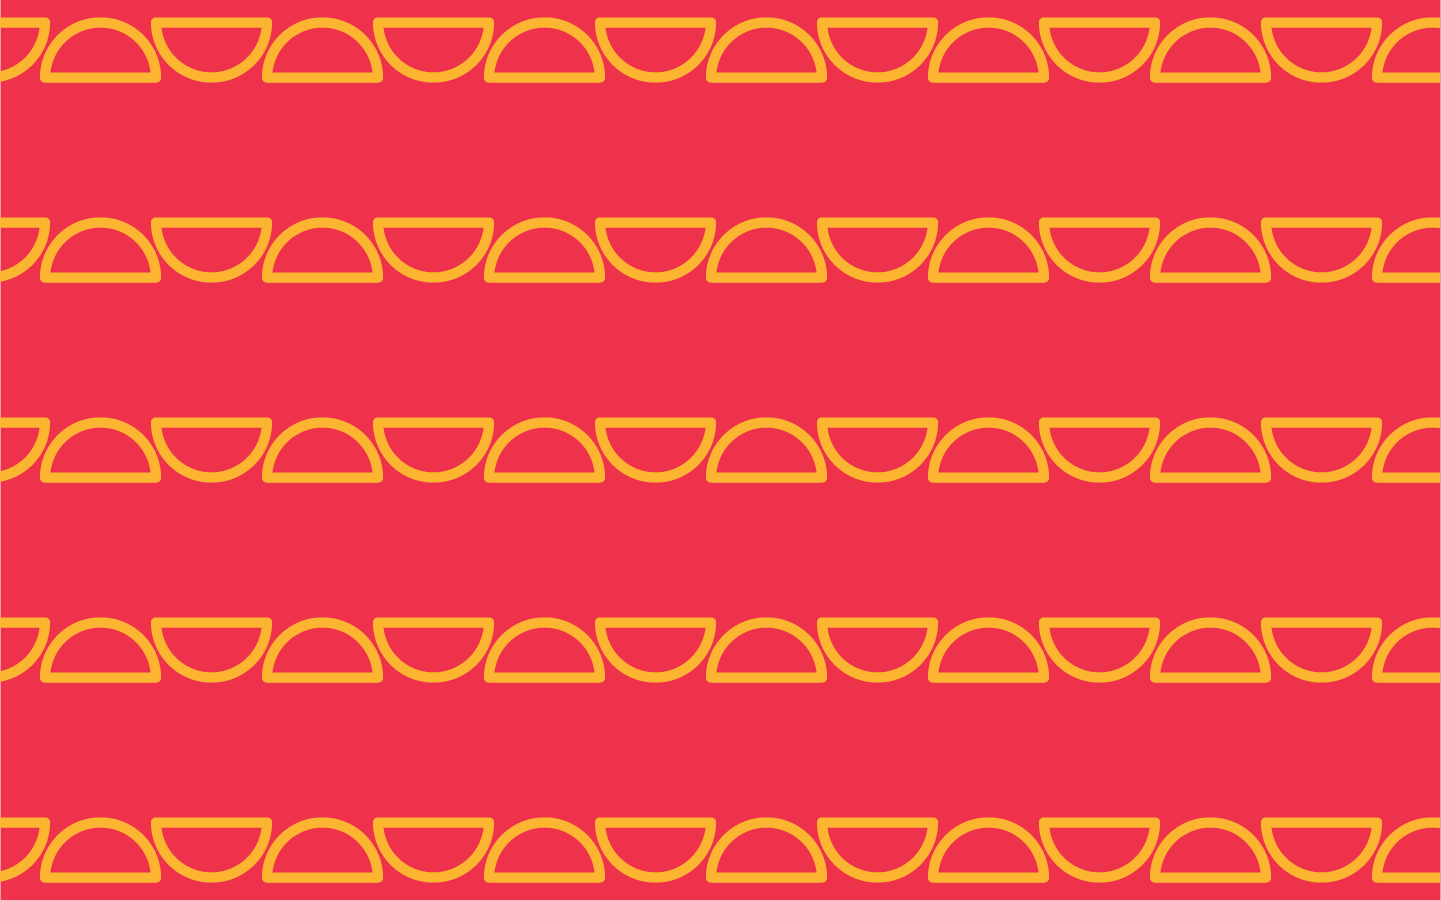
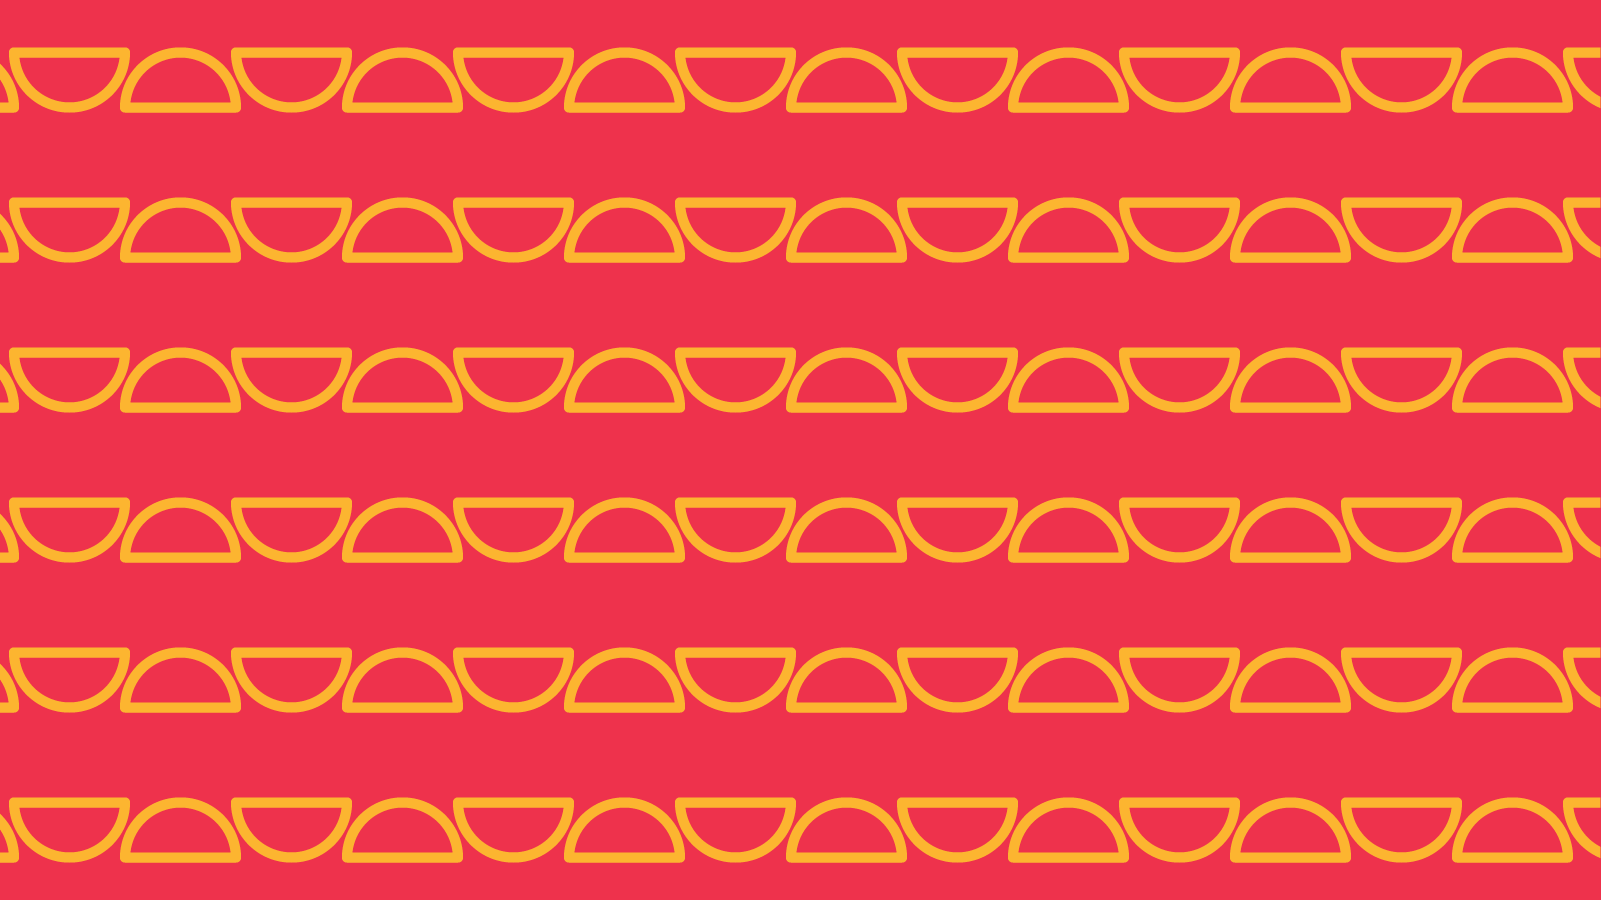
added the rest of the pages

diff --git a/rolls.html b/rolls.html
@@ -1,0 +1,73 @@
+<!DOCTYPE html>
+<html lang="en">
+<head>
+	<meta charset="UTF-8">
+	<title>Đặc Việt - Special Vietnamese Food</title>
+	<link rel="shortcut icon" href="/favicon.ico" type="image/x-icon">
+	<link rel="icon" href="/favicon.ico" type="image/x-icon">
+	<!-- This is a special css library that overrides all the ugle default css styles that come with html5 -->
+	<link rel="stylesheet" href="https://cdnjs.cloudflare.com/ajax/libs/meyer-reset/2.0/reset.min.css">
+	<link rel="stylesheet" href="css/style.css">
+	<link href="https://fonts.googleapis.com/css?family=Be+Vietnam|Yeseva+One&display=swap" rel="stylesheet">
+</head>
+<body class="rolls-pg">
+	<!-- These semantic tags were added to help you get started but you are very welcome to delete any of them and do your own thing -->
+	<div class="wrapper">
+		<header>
+			<!-- header, h1, logo etc content -->
+			<h1><a href="index.html"><img src="images/logo.png"></a></h1>
+			<nav>
+				<!-- Global naviagtion stuff here, but move this or delete this to your liking. Same goes for the rest -->
+				<ul>
+					<li><a href="noodles.html" class="nav-noodles">Noodles</a></li>
+					<li><a href="rolls.html" class="nav-rolls" style="color:teal;">Rolls</a></li>
+					<li><a href="fried.html" class="nav-fried">Fried</a></li>
+					<li><a href="dessert.html" class="nav-dessert">Dessert</a></li>
+				</ul>
+			</nav>
+		</header>
+		<main>
+			<!-- Main content here -->
+			<div class="grid-content">
+				<div class="grid-img-rolls">
+					<img src="images/goi_cuon.jpg">
+				</div>
+				<div class="grid-text">
+					<h2 class="rolls">Gỏi Cuốn</h2>
+					<p>Gỏi cuốn, Vietnamese spring roll, fresh spring roll or cold roll,
+						is a Vietnamese dish traditionally consisting of pork, prawn,
+						vegetables, bún (rice vermicelli), and other ingredients wrapped
+						in Vietnamese bánh tráng (commonly known as rice paper or
+						cold roll). Like other spring roll dishes, they are believed to have
+						an origin in China and were introduced to Vietnam by Chinese
+						immigrants although the gỏi cuốn has been modified to suit local
+						tastes.
+					</p>
+				</div> 	
+				<div class="grid-text-bottom">
+					<h2 class="rolls">Chả Giò</h2>
+					<p>Chả giò is a popular dish in Vietnamese cuisine and usually
+						served as an appetizer in Europe and North America, where there
+						are large Vietnamese diaspora. It is ground meat, usually pork,
+						wrapped in rice paper and deep-fried.
+					<br>
+						The main structure of a roll of chả giò is commonly seasoned
+						ground meat, mushrooms, and diced vegetables such as carrots,
+						kohlrabi and jicama, rolled up in a sheet of moist rice paper. The
+						roll is then deep fried until the rice paper coat turns crispy and
+						golden brown.
+					</p>p>
+				</div>
+				<div class="grid-img-rolls">
+					<img src="images/cha_gio.jpg">
+				</div>
+
+			</div>
+		</main>
+		<footer>
+			<!-- footer content here -->
+			<p class="footer">Copyright Rosa Phan 2019.</p>
+		</footer>
+	</div>
+</body>
+</html>

diff --git a/dessert.html b/dessert.html
@@ -1,0 +1,70 @@
+<!DOCTYPE html>
+<html lang="en">
+<head>
+	<meta charset="UTF-8">
+	<title>Đặc Việt - Special Vietnamese Food</title>
+	<link rel="shortcut icon" href="/favicon.ico" type="image/x-icon">
+	<link rel="icon" href="/favicon.ico" type="image/x-icon">
+	<!-- This is a special css library that overrides all the ugle default css styles that come with html5 -->
+	<link rel="stylesheet" href="https://cdnjs.cloudflare.com/ajax/libs/meyer-reset/2.0/reset.min.css">
+	<link rel="stylesheet" href="css/style.css">
+	<link href="https://fonts.googleapis.com/css?family=Be+Vietnam|Yeseva+One&display=swap" rel="stylesheet">
+</head>
+<body class="dessert-pg">
+	<!-- These semantic tags were added to help you get started but you are very welcome to delete any of them and do your own thing -->
+	<div class="wrapper">
+		<header>
+			<!-- header, h1, logo etc content -->
+			<h1><a href="index.html"><img src="images/logo.png"></a></h1>
+			<nav>
+				<!-- Global naviagtion stuff here, but move this or delete this to your liking. Same goes for the rest -->
+				<ul>
+					<li><a href="noodles.html" class="nav-noodles">Noodles</a></li>
+					<li><a href="rolls.html" class="nav-rolls">Rolls</a></li>
+					<li><a href="fried.html" class="nav-fried">Fried</a></li>
+					<li><a href="dessert.html" class="nav-dessert" style="color:purple;">Dessert</a></li>
+				</ul>
+			</nav>
+		</header>
+		<main>
+			<!-- Main content here -->
+			<div class="grid-content">
+				<div class="grid-img-dessert">
+					<img src="images/xoi.jpg">
+				</div>
+				<div class="grid-text">
+					<h2 class="dessert">Xôi</h2>
+					<p>Xôi is a sweet (ngọt) or savory (mặn) Vietnamese dish made
+						from glutinous rice and other ingredients. Although it is often
+						served as a dessert, in many mountainous areas in Vietnam, like
+						the Central Highlands and Hoàng Liên Sơn mountains in northern
+						Vietnam, people eat xôi as a main dish. Xôi is a common on-thego
+						breakfast item, and a popular snack nationwide.
+					</p>
+				</div> 	
+				<div class="grid-text-bottom">
+					<h2 class="dessert">Bánh Bò</h2>
+					<p>Bánh bò is a sweet, chewy sponge cake from Vietnam. It is made
+						from rice flour, water, sugar, and yeast, and has a honeycomblike
+						appearance on the inside due to the presence of numerous
+						small air bubbles. Coconut milk is also usually a part of the batter,
+						imparting a slight flavor and aroma of coconut. The cake is of
+						Southern Chinese origin, although the Chinese version, called bái
+						táng gāo, does not contain coconut milk. Bánh bò are generally
+						eaten as a dessert, although they may also be consumed as an
+						accompaniment to a meal.
+					</p>p>
+				</div>
+				<div class="grid-img-dessert">
+					<img src="images/banh_bo.jpg">
+				</div>
+
+			</div>
+		</main>
+		<footer>
+			<!-- footer content here -->
+			<p class="footer">Copyright Rosa Phan 2019.</p>
+		</footer>
+	</div>
+</body>
+</html>

diff --git a/fried.html b/fried.html
@@ -1,0 +1,69 @@
+<!DOCTYPE html>
+<html lang="en">
+<head>
+	<meta charset="UTF-8">
+	<title>Đặc Việt - Special Vietnamese Food</title>
+	<link rel="shortcut icon" href="/favicon.ico" type="image/x-icon">
+	<link rel="icon" href="/favicon.ico" type="image/x-icon">
+	<!-- This is a special css library that overrides all the ugle default css styles that come with html5 -->
+	<link rel="stylesheet" href="https://cdnjs.cloudflare.com/ajax/libs/meyer-reset/2.0/reset.min.css">
+	<link rel="stylesheet" href="css/style.css">
+	<link href="https://fonts.googleapis.com/css?family=Be+Vietnam|Yeseva+One&display=swap" rel="stylesheet">
+</head>
+<body class="fried-pg">
+	<!-- These semantic tags were added to help you get started but you are very welcome to delete any of them and do your own thing -->
+	<div class="wrapper">
+		<header>
+			<!-- header, h1, logo etc content -->
+			<h1><a href="index.html"><img src="images/logo.png"></a></h1>
+			<nav>
+				<!-- Global naviagtion stuff here, but move this or delete this to your liking. Same goes for the rest -->
+				<ul>
+					<li><a href="noodles.html" class="nav-noodles">Noodles</a></li>
+					<li><a href="rolls.html" class="nav-rolls">Rolls</a></li>
+					<li><a href="fried.html" class="nav-fried" style="color:red;">Fried</a></li>
+					<li><a href="dessert.html" class="nav-dessert">Dessert</a></li>
+				</ul>
+			</nav>
+		</header>
+		<main>
+			<!-- Main content here -->
+			<div class="grid-content">
+				<div class="grid-img-fried">
+					<img src="images/banh_xeo.jpg">
+				</div>
+				<div class="grid-text">
+					<h2 class="fried">Bánh Xèo</h2>
+					<p>Bánh xèo, literally “sizzling pancake”, named for the loud sizzling
+						sound it makes when the rice batter is poured into the hot skillet;
+						it is a Vietnamese savoury fried pancake made of rice flour, water,
+						and turmeric powder. Some common stuffings include: pork,
+						shrimp, diced green onion, mung bean, and bean sprouts. Bánh
+						xèo are also served with lettuce, mint, Thai basil, and fish mint.
+					</p>
+				</div> 	
+				<div class="grid-text-bottom">
+					<h2 class="fried">Chạo Tôm</h2>
+					<p>Chạo tôm is a traditional Vietnamese dish that comes from the
+						Huế region of Central Vietnam. It consists of shrimp surimi grilled
+						on a sugar cane stick. It is often presented as a dish during large
+						banquets prepared for weddings, holidays, or similar special
+						events.
+					<br>
+						They are often eaten with vermicelli noodles, or is used as the
+						main protein in gỏi cuốn.
+					</p>p>
+				</div>
+				<div class="grid-img-fried">
+					<img src="images/chao_tom.jpg">
+				</div>
+
+			</div>
+		</main>
+		<footer>
+			<!-- footer content here -->
+			<p class="footer">Copyright Rosa Phan 2019.</p>
+		</footer>
+	</div>
+</body>
+</html>

diff --git a/css/style.css b/css/style.css
@@ -13,14 +13,32 @@ body {
 		background-image: url(../images/bg_noodles.png);
 	}
 
+	.rolls-pg{
+		background-image: url(../images/bg_rolls.png);
+	}
+
+	.fried-pg{
+		background-image: url(../images/bg_fried.png);
+	}
+
+	.dessert-pg{
+		background-image: url(../images/bg_dessert.png);
+	}
+
 a {
 	text-decoration: none;
 	color: white;
 	font-size: 20px;
 }
 
-	.noodles-link:hover {color: orange;}
-	.noodles-link:active {color: orange;}
+	.nav-noodles:hover {color: orange;}
+	.nav-noodles:active {color: orange;}
+	.nav-rolls:hover {color: teal;}
+	.nav-rolls:active {color: teal;}
+	.nav-fried:hover {color: red;}
+	.nav-fried:active {color: red;}
+	.nav-dessert:hover {color: purple;}
+	.nav-dessert:active {color: purple;}
 
 header, main, footer {
 	background-color: black;
@@ -86,8 +104,52 @@ main {
 		margin-left: 20px;}
 
 
-	.grid-text-bottom div:nth-child(even) {
-		vertical-align: text-bottom;}
+	.grid-text-bottom {
+		text-align: right;
+	}
+
+	.grid-img-rolls img {
+		border-color:teal;
+		border-style:solid;
+		border-radius: 25px;
+		border-width: 10px;
+		width: 100%;
+	}
+
+	.grid-img-rolls img:nth-child(odd) {
+		margin-right: 20px;}
+
+	.grid-img-rolls img:nth-child(even) {
+		margin-left: 20px;}
+
+	.grid-img-fried img {
+		border-color:red;
+		border-style:solid;
+		border-radius: 25px;
+		border-width: 10px;
+		width: 100%;
+	}
+
+	.grid-img-fried img:nth-child(odd) {
+		margin-right: 20px;}
+
+	.grid-img-fried img:nth-child(even) {
+		margin-left: 20px;}
+
+	.grid-img-dessert img {
+		border-color:purple;
+		border-style:solid;
+		border-radius: 25px;
+		border-width: 10px;
+		width: 100%;
+	}
+
+	.grid-img-dessert img:nth-child(odd) {
+		margin-right: 20px;}
+
+	.grid-img-dessert img:nth-child(even) {
+		margin-left: 20px;}
+
 
 h2 {
 	font-family: 'Yeseva One', cursive;
@@ -95,7 +157,19 @@ h2 {
 }
 
 	.noodles {
-	color: orange;
+		color: orange;
+	}
+
+	.rolls {
+		color: teal;
+	}
+
+	.fried {
+		color: red;
+	}
+
+	.dessert {
+		color: purple;
 	}
 
 p {

diff --git a/noodles.html b/noodles.html
@@ -19,10 +19,10 @@
 			<nav>
 				<!-- Global naviagtion stuff here, but move this or delete this to your liking. Same goes for the rest -->
 				<ul>
-					<li><a href="noodles.html" class="nav-noodles">Noodles</a></li>
-					<li><a href="rolls.html" class="rolls">Rolls</a></li>
-					<li><a href="fried.html" class="fried">Fried</a></li>
-					<li><a href="dessert.html" class="dessert">Dessert</a></li>
+					<li><a href="noodles.html" class="nav-noodles" style="color:orange;">Noodles</a></li>
+					<li><a href="rolls.html" class="nav-rolls">Rolls</a></li>
+					<li><a href="fried.html" class="nav-fried">Fried</a></li>
+					<li><a href="dessert.html" class="nav-dessert">Dessert</a></li>
 				</ul>
 			</nav>
 		</header>

diff --git a/index.html b/index.html
@@ -20,9 +20,9 @@
 				<!-- Global naviagtion stuff here, but move this or delete this to your liking. Same goes for the rest -->
 				<ul>
 					<li><a href="noodles.html" class="nav-noodles">Noodles</a></li>
-					<li><a href="rolls.html" class="rolls">Rolls</a></li>
-					<li><a href="fried.html" class="fried">Fried</a></li>
-					<li><a href="dessert.html" class="dessert">Dessert</a></li>
+					<li><a href="rolls.html" class="nav-rolls">Rolls</a></li>
+					<li><a href="fried.html" class="nav-fried">Fried</a></li>
+					<li><a href="dessert.html" class="nav-dessert">Dessert</a></li>
 				</ul>
 			</nav>
 		</header>
